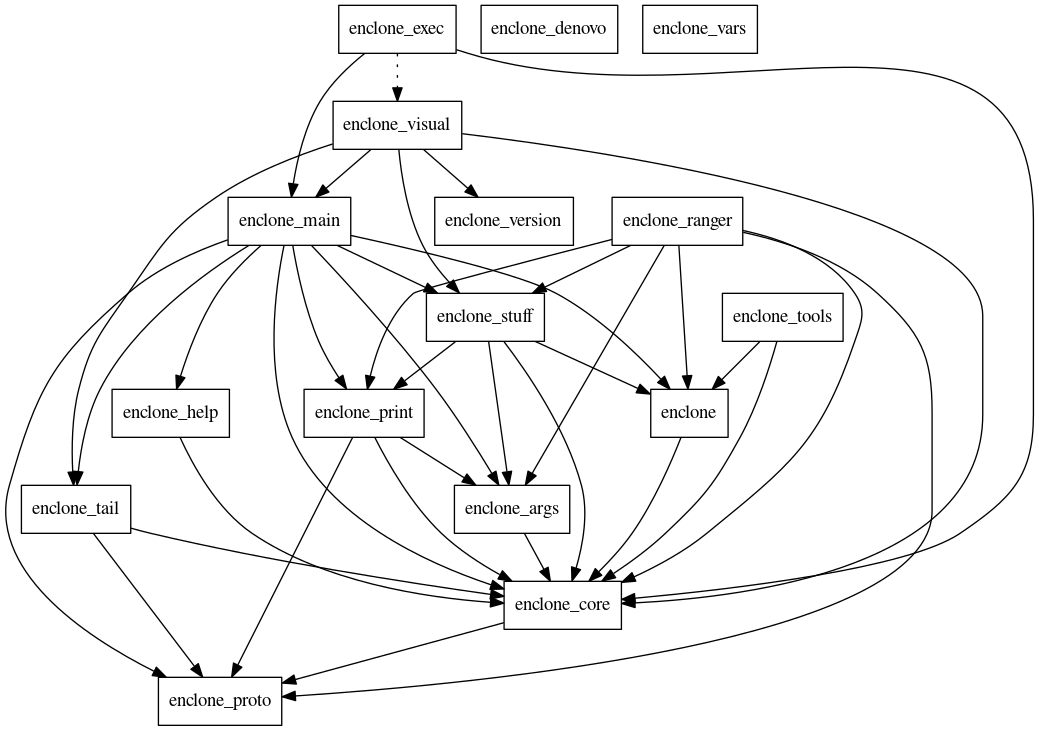
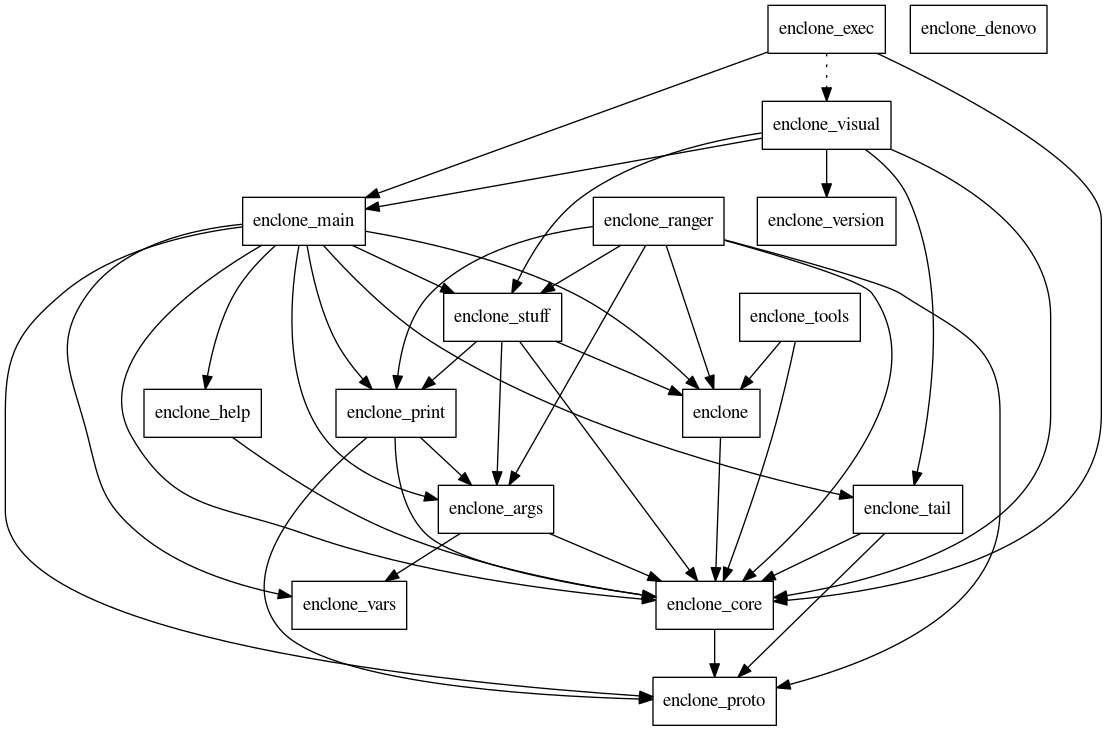
various changes (= dj/235) (#341)
- Add VAR_DEF: work in progress and undocumented.
- Import expr_tools: work in progress.
STATUS: ./test, enclone.test and test_vis pass, except for run time on test_vis.

diff --git a/enclone_tools/src/bin/test_expr.rs b/enclone_tools/src/bin/test_expr.rs
@@ -3,139 +3,20 @@
 // Experimental code for working with evalexpr.
 
 use evalexpr::build_operator_tree;
-use evalexpr::Function;
-use evalexpr::Value;
-use evalexpr::{ContextWithMutableFunctions, ContextWithMutableVariables, HashMapContext};
-use string_utils::*;
-
-// ================================================================================================
-
-// This does not compile, so using a macro below.
-
-/*
-pub fn evalexpr_fn2(f: fn(f64, f64) -> f64) -> evalexpr::Function {
-    Function::new(|t| {
-        if t.is_tuple() {
-            let t = t.as_tuple().unwrap();
-            if t.len() == 2 {
-                let x = &t[0];
-                let y = &t[1];
-                if x.is_number() && y.is_number() {
-                    let x = x.as_number().unwrap();
-                    let y = y.as_number().unwrap();
-                    return Ok(Value::from(f(x, y)));
-                }
-            }
-        }
-        Ok(Value::from(""))
-    })
-}
-*/
-
-macro_rules! evalexpr_fn2 {
-    ($f:expr) => {
-        Function::new(|t| {
-            if t.is_tuple() {
-                let t = t.as_tuple().unwrap();
-                if t.len() == 2 {
-                    let x = &t[0];
-                    let y = &t[1];
-                    if x.is_number() && y.is_number() {
-                        let x = x.as_number().unwrap();
-                        let y = y.as_number().unwrap();
-                        return Ok(Value::from($f(x, y)));
-                    }
-                }
-            }
-            Ok(Value::from(""))
-        })
-    };
-}
-
-pub fn prod(x: f64, y: f64) -> f64 {
-    x * y
-}
-
-// ================================================================================================
-
-// Given a a list of variables and values for them, define an evalexpr::HashMapContext that
-// includes these variables, as well as some convenient (but arbitrarily chosen) functions.
-// This can then be used to evaluate an expression.
-//
-// Functions take as input zero or more f64 arguments, and return an f64.  The machine allows them
-// to be called on arbitrary strings, but if the strings are not all f64, then the return value is
-// null.
-
-pub fn define_evalexpr_context(vars: &Vec<String>, vals: &Vec<String>) -> evalexpr::HashMapContext {
-    assert_eq!(vars.len(), vals.len());
-    let mut c = HashMapContext::new();
-
-    // Define the variable values.
-
-    for i in 0..vars.len() {
-        if vals[i].parse::<f64>().is_ok() {
-            c.set_value(vars[i].clone(), evalexpr::Value::Float(vals[i].force_f64()))
-                .unwrap();
-        } else {
-            c.set_value(vars[i].clone(), evalexpr::Value::String(vals[i].clone()))
-                .unwrap();
-        }
-    }
-
-    let _ = c.set_function("prod".to_string(), evalexpr_fn2![prod]);
-
-    // Define a function.
-
-    /*
-    fn prod(x: f64, y: f64) -> f64 {
-        x * y
-    }
-    let _ = c.set_function(
-        "prod".to_string(),
-        Function::new(|t| {
-            if t.is_tuple() {
-                let t = t.as_tuple().unwrap();
-                if t.len() == 2 {
-                    let x = &t[0];
-                    let y = &t[1];
-                    if x.is_number() && y.is_number() {
-                        let x = x.as_number().unwrap();
-                        let y = y.as_number().unwrap();
-                        return Ok(Value::from(prod(x, y)));
-                    }
-                }
-            }
-            Ok(Value::from(""))
-        }),
-    );
-    */
-
-    // Define a function.
-
-    fn square(x: f64) -> f64 {
-        x * x
-    }
-    let _ = c.set_function(
-        "square".to_string(),
-        Function::new(|x| {
-            if x.is_number() {
-                let x = x.as_number().unwrap();
-                Ok(Value::from(square(x)))
-            } else {
-                Ok(Value::from(""))
-            }
-        }),
-    );
-
-    // Done.
-
-    c
-}
+use expr_tools::*;
+use itertools::Itertools;
 
 // ================================================================================================
 
 fn main() {
-    let expr = "prod(x, y)";
+    // Define an expression.
+
+    // let expr = "prod(x, y)";
+    // let expr = "square(x)";
+    let expr = "square(x.µ©¶Ƨ)";
+
+    // Compile the expression.
+
     let compiled = build_operator_tree(&expr); // creates a Node
     if compiled.is_err() {
         println!("failed");
@@ -143,9 +24,24 @@ fn main() {
         println!("ok");
     }
     let compiled = compiled.unwrap();
+    let v = vars_of_node(&compiled);
+    println!("variables in node = {}", v.iter().format(","));
+
+    if true {
+        std::process::exit(0);
+    }
+
+    // Create variables and values.
+
     let vars = vec!["x".to_string(), "y".to_string()];
     let vals = vec!["1.5".to_string(), "100".to_string()];
+
+    // Set up compute context.
+
     let c = define_evalexpr_context(&vars, &vals);
+
+    // Determine the value of the expression in the compute context.
+
     let res = compiled.eval_with_context(&c);
     if res.is_err() {
         println!("evaluation failed");

diff --git a/enclone_args/src/process_special_arg.rs b/enclone_args/src/process_special_arg.rs
@@ -6,7 +6,9 @@ use crate::proc_args2::{is_f64_arg, is_simple_arg, is_usize_arg};
 use enclone_core::cell_color::*;
 use enclone_core::defs::EncloneControl;
 use enclone_core::linear_condition::LinearCondition;
+use enclone_vars::encode_arith;
 use evalexpr::build_operator_tree;
+use expr_tools::test_functions_in_node;
 use io_utils::path_exists;
 use itertools::Itertools;
 use regex::Regex;
@@ -204,6 +206,35 @@ pub fn process_special_arg(
             let cc = CellColor::ByVariableValue(v);
             ctl.plot_opt.cell_color = cc;
         }
+    } else if arg.starts_with("VAR_DEF=") {
+        let val = arg.after("VAR_DEF=");
+        if !val.contains(":") {
+            return Err(format!("\nCould not find : in {}.\n", arg));
+        }
+        let name = val.before(":");
+        let expr = val.after(":");
+        let eval = encode_arith(&val);
+        let compiled = build_operator_tree(&eval);
+        if compiled.is_err() {
+            return Err(format!(
+                "\nUnable to represent \"{}\" as a valid expression.  You might \
+                check the following:\n\
+                • arithmetic operators + - * / must have a blank on both sides\n\
+                • parentheses must be balanced\n",
+                expr,
+            ));
+        }
+        let compiled = compiled.unwrap();
+        let res = test_functions_in_node(&compiled);
+        if res.is_err() {
+            let err = res.as_ref().err().unwrap();
+            return Err(format!(
+                "\n{}\nYou might check the following:\n\
+                • arithmetic operators + - * / must have a blank on both sides\n",
+                err,
+            ));
+        }
+        ctl.gen_opt.var_def.push((name.to_string(), compiled));
     } else if arg.starts_with("MIN_DONORS") {
         let n = arg.after("MIN_DONORS=");
         if n.parse::<usize>().is_err() || n.force_usize() == 0 {

diff --git a/enclone_vars/src/lib.rs b/enclone_vars/src/lib.rs
@@ -38,3 +38,55 @@ pub fn sort_vars(input: &str) -> String {
     out += &mut format!("{}\n", div);
     out
 }
+
+// Functions to encode and decode arithmetic operators.  Because the symbols - and / appear in gene
+// names, and because these symbols are also arithmetic operators, we need a system for hiding
+// them.  The system is that we encode/decode all the standard arithmetic operators + - * /
+// according to the following table, but only if they appear with characters on both sides, with
+// neither character being a blank.
+//
+// NORMAL    ENCODED
+// +         ©add©
+// -         ©sub©
+// *         ©mul©
+// /         ©div©
+//
+// The funny symbol © is the copyright symbol.
+
+pub fn encode_arith(x: &str) -> String {
+    let mut m = Vec::<char>::new();
+    for c in x.chars() {
+        m.push(c);
+    }
+    let mut encoded = String::new();
+    for i in 1..m.len() - 1 {
+        let mut saved = false;
+        if m[i - 1] != ' ' && m[i + 1] != ' ' {
+            if m[i] == '+' {
+                encoded += "©add©";
+                saved = true;
+            } else if m[i] == '-' {
+                encoded += "©sub©";
+                saved = true;
+            } else if m[i] == '*' {
+                encoded += "©mul©";
+                saved = true;
+            } else if m[i] == '/' {
+                encoded += "©div©";
+                saved = true;
+            }
+        }
+        if !saved {
+            encoded.push(m[i]);
+        }
+    }
+    encoded
+}
+
+pub fn decode_arith(x: &str) -> String {
+    let mut x = x.replace("©add©", "+");
+    x = x.replace("©sub©", "-");
+    x = x.replace("©mul©", "*");
+    x = x.replace("©div©", "/");
+    x
+}

diff --git a/enclone_main/src/main_enclone.rs b/enclone_main/src/main_enclone.rs
@@ -19,6 +19,8 @@ use enclone_core::enclone_structs::*;
 use enclone_core::version_string;
 use enclone_stuff::start::*;
 use enclone_stuff::vars::match_vars;
+use enclone_vars::decode_arith;
+use expr_tools::vars_of_node;
 use io_utils::{open_for_read, open_userfile_for_read, path_exists};
 use itertools::Itertools;
 use pretty_trace::start_profiling;
@@ -259,6 +261,16 @@ pub fn main_enclone_setup(args: &Vec<String>) -> Result<EncloneSetup, String> {
         &ctl.plot_opt.sim_mat_plot_vars,
         ctl.parseable_opt.pbarcode,
     )?;
+    let mut var_def_vars = Vec::<String>::new();
+    for i in 0..ctl.gen_opt.var_def.len() {
+        let n = &ctl.gen_opt.var_def[i].1;
+        let vars = vars_of_node(&n);
+        for v in vars.iter() {
+            let w = decode_arith(&*v);
+            var_def_vars.push(w);
+        }
+    }
+    check_pcols(&ctl, &gex_info, &var_def_vars, ctl.parseable_opt.pbarcode)?;
     ctl.perf_stats(&twoof, "checking pcols");
 
     // Check DVARS.

diff --git a/enclone_vars/src/var.rs b/enclone_vars/src/var.rs
@@ -123,7 +123,7 @@ pub fn parse_variables(input: &str) -> Vec<Variable> {
 
     // Test upper-case rule.
 
-    let classes = ["BC", "DATASET", "FEATURE", "INFO", "NAME", "REG"];
+    let classes = ["BC", "DATASET", "FEATURE", "INFO", "NAME", "REG", "VARDEF"];
     for i in 0..vars.len() {
         let n = &vars[i].name;
         let mut chars = Vec::<char>::new();

diff --git a/enclone_args/src/proc_args_check.rs b/enclone_args/src/proc_args_check.rs
@@ -634,6 +634,14 @@ pub fn check_one_lvar(
         }
     }
 
+    // Check names defined by VAR_DEF.
+
+    for i in 0..ctl.gen_opt.var_def.len() {
+        if x == &ctl.gen_opt.var_def[i].0 {
+            return Ok(true);
+        }
+    }
+
     // Check for fb<n> and fb<n>_n, and _cell versions.
 
     if x.starts_with("fb") {

diff --git a/enclone_core/src/defs.rs b/enclone_core/src/defs.rs
@@ -235,6 +235,7 @@ pub struct GeneralOpt {
     pub group_post_filter: Option<Vec<usize>>,
     pub no_newline: bool,
     pub fb_show: String,
+    pub var_def: Vec<(String, Node)>,
 }
 
 // Some plot options.  Note that plot options are not allowed to affect intermediate computation.
